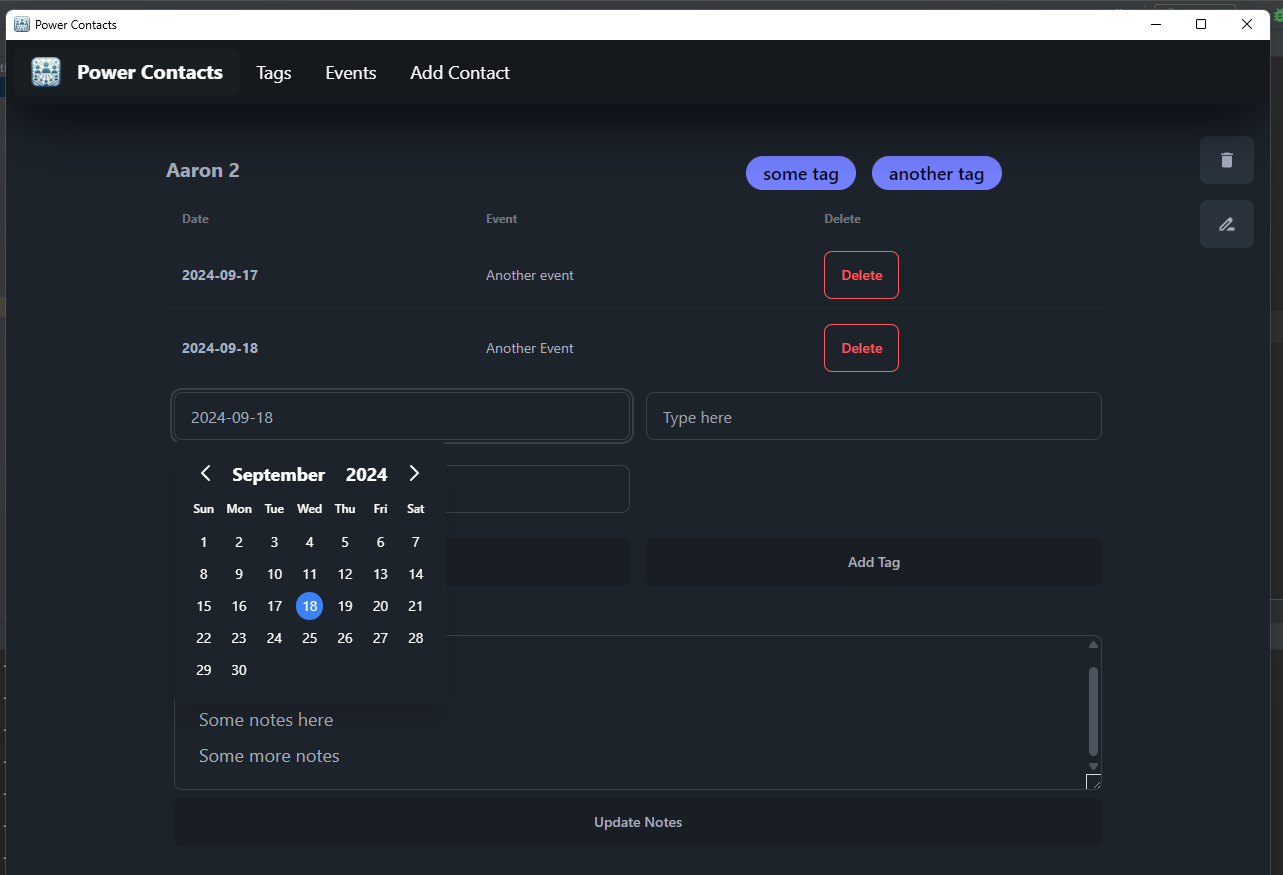
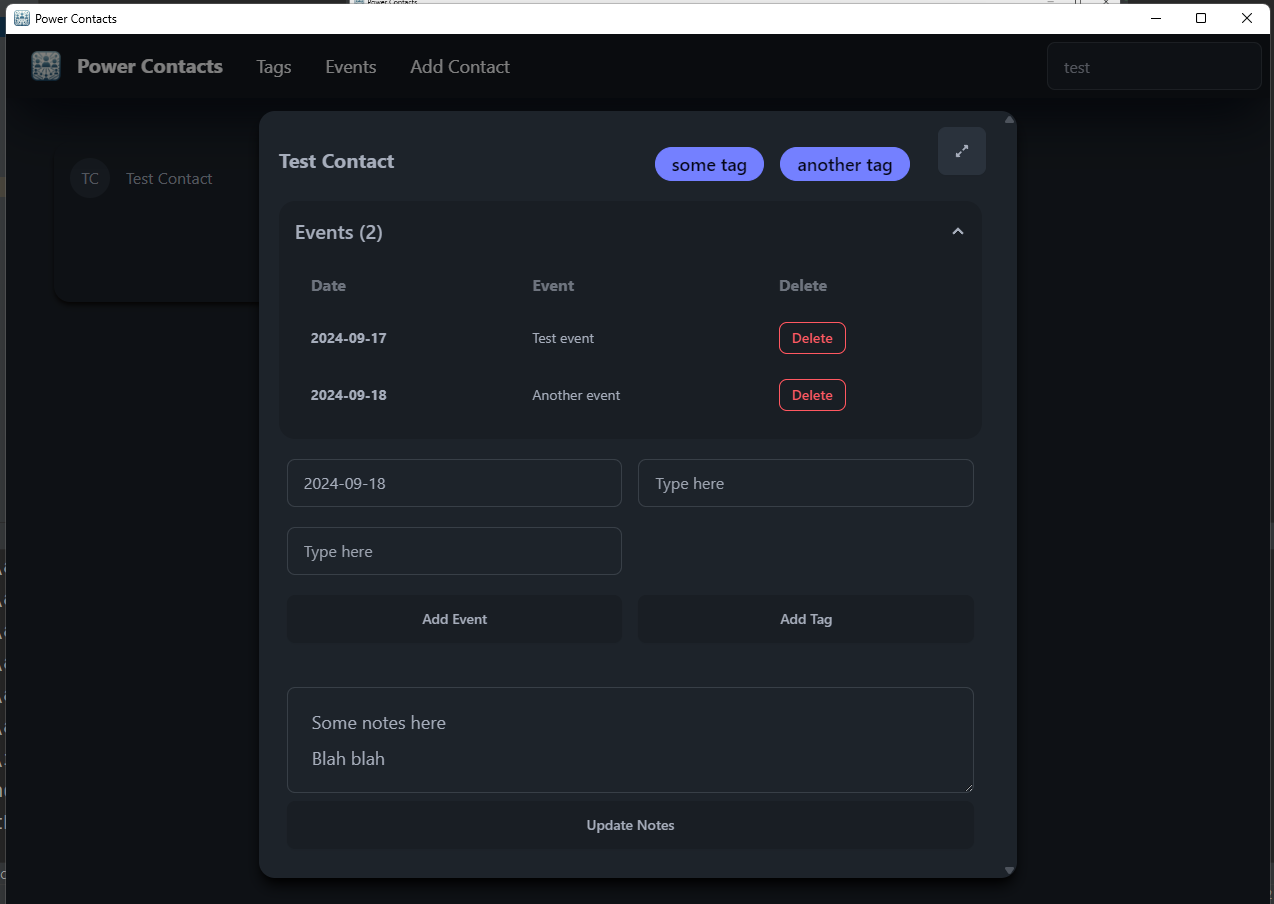
- Added alt-shortcuts - Added better responsiveness - Added ctrl-f for search - More bug fixes

diff --git a/frontend/src/components/ContactPage.tsx b/frontend/src/components/ContactPage.tsx
@@ -1,10 +1,9 @@
 import Picker from './DatePicker';
-import { useState } from 'react';
+import { useState, useEffect } from 'react';
 import { format } from 'date-fns';
 import { BACKEND_URL } from '../constants';
 import { FaExpandAlt } from 'react-icons/fa';
 import { Link } from 'react-router-dom';
-import { useEffect } from 'react';
 import Toast from './Toast';
 
 type Event = {
@@ -57,7 +56,6 @@ function ContactPage({ contact, onClose }: Props) {
   }, [onClose]);
 
   const handleClose = () => {
-    // check if need to reload
     if (somethingChanged) {
       onClose();
       window.location.reload();
@@ -191,7 +189,7 @@ function ContactPage({ contact, onClose }: Props) {
     if (notesText === '') {
       encodedNotesText = '';
     }
-    encodedNotesText = encodeURIComponent(notesText); // Encode the notesText
+    encodedNotesText = encodeURIComponent(notesText);
     const req = {
       method: 'PUT',
     };
@@ -228,11 +226,10 @@ function ContactPage({ contact, onClose }: Props) {
       setShowToast(false);
     }, 2000);
   };
-
   return (
     <div className='fixed inset-0 bg-black bg-opacity-50 flex items-center justify-center z-20'>
-      <div className='p-5 card bg-base-100 shadow-lg z-10 w-3/5 h-5/6 overflow-auto shadow-black relative'>
-        <div className='absolute top-4 right-4'>
+      <div className='p-5 card bg-base-100 shadow-lg z-10 w-3/5 overflow-y-scroll h-5/6 shadow-black relative'>
+        <div className='absolute top-4 right-4 z-50'>
           <Link to={`/app/contact/${contactState.id}`}>
             <button className='btn btn-neutral'>
               <FaExpandAlt />
@@ -240,10 +237,10 @@ function ContactPage({ contact, onClose }: Props) {
           </Link>
         </div>
         <div className='grid grid-rows-1 grid-cols-2'>
-          <h2 className='flex text-xl font-bold items-center'>
+          <h2 className='flex text-xl font-bold items-center min-h-14'>
             {contactState.name}
           </h2>
-          <div className='flex flex-row flex-wrap justify-center items-center mt-2'>
+          <div className='flex flex-row flex-wrap justify-center items-center mt-2 mr-12'>
             {contactState.tags.map((tag) => (
               <div
                 key={tag}
@@ -256,15 +253,15 @@ function ContactPage({ contact, onClose }: Props) {
           </div>
         </div>
         {contactState && contactState.events.length > 0 && (
-          <div className='collapse collapse-arrow bg-base-200 w-full my-3'>
+          <div className='collapse overflow-visible collapse-arrow bg-base-200 w-full my-3'>
             <input type='checkbox' />
             <div className='collapse-title text-xl font-medium'>
               Events ({contactState.events.length})
             </div>
-            <div className='collapse-content overflow-y-auto'>
-              <table className='table'>
+            <div className='collapse-content'>
+              <table className='table table-md'>
                 <thead>
-                  <tr>
+                  <tr className='text-base'>
                     <th>Date</th>
                     <th>Event</th>
                     <th>Delete</th>
@@ -280,13 +277,12 @@ function ContactPage({ contact, onClose }: Props) {
                     .map((event, index) => (
                       <tr
                         key={index}
-                        className='hover'
                       >
                         <th>{event.date}</th>
                         <td>{event.description}</td>
                         <td>
                           <button
-                            className='btn btn-outline btn-error'
+                            className='btn btn-outline btn-sm btn-error'
                             onClick={() => handleDeleteEvent(event)}
                           >
                             Delete
@@ -299,7 +295,7 @@ function ContactPage({ contact, onClose }: Props) {
             </div>
           </div>
         )}
-        <div className='overflow-x-auto h-full relative'>
+        <div className='h-full relative'>
           <div className='grid grid-cols-2 grid-rows-1'>
             <div className='grid grid-rows-3 grid-cols-1 m-2'>
               <Picker onDateChange={handleDateChange} />

diff --git a/frontend/src/pages/ContactPageFull.tsx b/frontend/src/pages/ContactPageFull.tsx
@@ -313,7 +313,7 @@ function ContactPageFull() {
           </div>
         )}
         <div className='mt-15 grid grid-rows-1 grid-cols-2'>
-          <h2 className='flex text-xl font-bold items-center'>
+          <h2 className='flex text-xl font-bold items-center min-h-14'>
             {contactState?.name}
           </h2>
           <div className='flex flex-row flex-wrap justify-center items-center mt-2'>
@@ -329,15 +329,15 @@ function ContactPageFull() {
           </div>
         </div>
         {contactState && contactState.events.length > 0 && (
-          <div className='collapse collapse-arrow bg-base-200 w-full my-3'>
+          <div className='collapse overflow-visible collapse-arrow bg-base-200 w-full my-3'>
             <input type='checkbox' />
             <div className='collapse-title text-xl font-medium'>
               Events ({contactState.events.length})
             </div>
             <div className='collapse-content'>
-              <table className='table'>
+              <table className='table table-md'>
                 <thead>
-                  <tr>
+                  <tr className='text-base'>
                     <th>Date</th>
                     <th>Event</th>
                     <th>Delete</th>
@@ -353,13 +353,12 @@ function ContactPageFull() {
                     .map((event, index) => (
                       <tr
                         key={index}
-                        className='hover'
                       >
                         <th>{event.date}</th>
                         <td>{event.description}</td>
                         <td>
                           <button
-                            className='btn btn-outline btn-error'
+                            className='btn btn-outline btn-sm btn-error'
                             onClick={() => handleDeleteEvent(event)}
                           >
                             Delete

diff --git a/frontend/src/components/ContactCard.tsx b/frontend/src/components/ContactCard.tsx
@@ -17,7 +17,7 @@ function ContactCard({ name, tags, onClick }: ContactCardProps) {
 
   return (
     <div
-      className='card bg-base-100 h-40 shadow-lg shadow-stone-950 hover:bg-base-200 hover:transition-all hover:ease-linear m-2'
+      className='card bg-base-100 h-40 shadow-md shadow-stone-950 hover:bg-base-200 hover:transition-all hover:ease-linear m-2'
       onClick={onClick}
     >
       <div className='card-body flex flex-col justify-between h-full p-4'>
@@ -30,10 +30,10 @@ function ContactCard({ name, tags, onClick }: ContactCardProps) {
           <span className='ml-4 truncate flex-grow'>{name}</span>
         </div>
         <div className='flex flex-wrap mt-2'>
-          {tags.map((tag) => (
+          {tags.slice(0, 4).map((tag) => (
             <div
               key={crypto.randomUUID()}
-              className='badge badge-primary m-1 p-2 font-medium text-sm'
+              className='badge badge-primary m-1 p-2 font-medium sm:text-xs lg:text-sm'
             >
               {tag}
             </div>

diff --git a/frontend/src/components/TagCard.tsx b/frontend/src/components/TagCard.tsx
@@ -12,7 +12,7 @@ type TagCardProps = {
 function TagCard({ tag, people, onClick }: TagCardProps) {
   return (
     <div
-      className='card bg-base-100 h-20 shadow-lg shadow-stone-950 hover:bg-base-200 hover:transition-all hover:ease-linear m-2'
+      className='card bg-base-100 h-20 shadow-md shadow-stone-950 hover:bg-base-200 hover:transition-all hover:ease-linear m-2'
       onClick={onClick}
     >
       <div className='card-body flex flex-col justify-between h-full p-4'>
@@ -22,7 +22,7 @@ function TagCard({ tag, people, onClick }: TagCardProps) {
               <span className='text-base'>#</span>
             </div>
           </div>
-          <span className='ml-4 truncate flex-grow'>{tag}</span>
+          <span className='ml-4 truncate flex-grow font-semibold text-base'>{tag}</span>
           <div className="badge badge-primary text-lg">{people.length}</div>
         </div>
       </div>

diff --git a/frontend/src/components/TagPage.tsx b/frontend/src/components/TagPage.tsx
@@ -37,7 +37,7 @@ function TagPage({ tag, contacts, onClose }: Props) {
 
   return (
     <div className='fixed inset-0 bg-black bg-opacity-50 backdrop-blur-sm flex items-center justify-center z-20'>
-      <div className='p-5 card bg-base-100 shadow-lg z-10 w-3/4 h-5/6 overflow-auto shadow-black'>
+      <div className='p-5 card bg-base-100 shadow-md z-10 w-3/4 h-5/6 overflow-auto shadow-slate-950'>
         <h2 className='text-xl font-bold mb-4'>#{tag}</h2>
         <ul className='lg:grid lg:grid-cols-3 md:grid md:grid-cols-2 sm:grid sm:grid-cols-1 ml-5'>
           {contacts.map((contact) => (

diff --git a/frontend/src/components/EventCard.tsx b/frontend/src/components/EventCard.tsx
@@ -13,7 +13,7 @@ type EventCardProps = {
 function EventCard({ date, firstEventName, events, onClick }: EventCardProps) {
   return (
     <div
-      className='card bg-base-100 h-20 shadow-lg shadow-stone-950 hover:bg-base-200 hover:transition-all hover:ease-linear m-2'
+      className='card bg-base-100 h-20 shadow-md shadow-stone-950 hover:bg-base-200 hover:transition-all hover:ease-linear m-2'
       onClick={onClick}
     >
       <div className='card-body flex flex-col justify-between h-full p-4'>

diff --git a/frontend/src/components/EventPage.tsx b/frontend/src/components/EventPage.tsx
@@ -42,7 +42,7 @@ function EventPage({ date, events, onClose }: EventPageProps) {
       onClick={onClose}
     >
       <div
-        className='mt-8 p-5 card bg-base-100 shadow-lg z-30 w-3/5 h-5/6 overflow-auto shadow-black'
+        className='mt-8 p-5 card bg-base-100 shadow-md z-30 w-3/5 h-5/6 overflow-auto shadow-slate-950'
         onClick={(e) => e.stopPropagation()}
       >
         <div className='flex justify-between items-center mb-4'>
